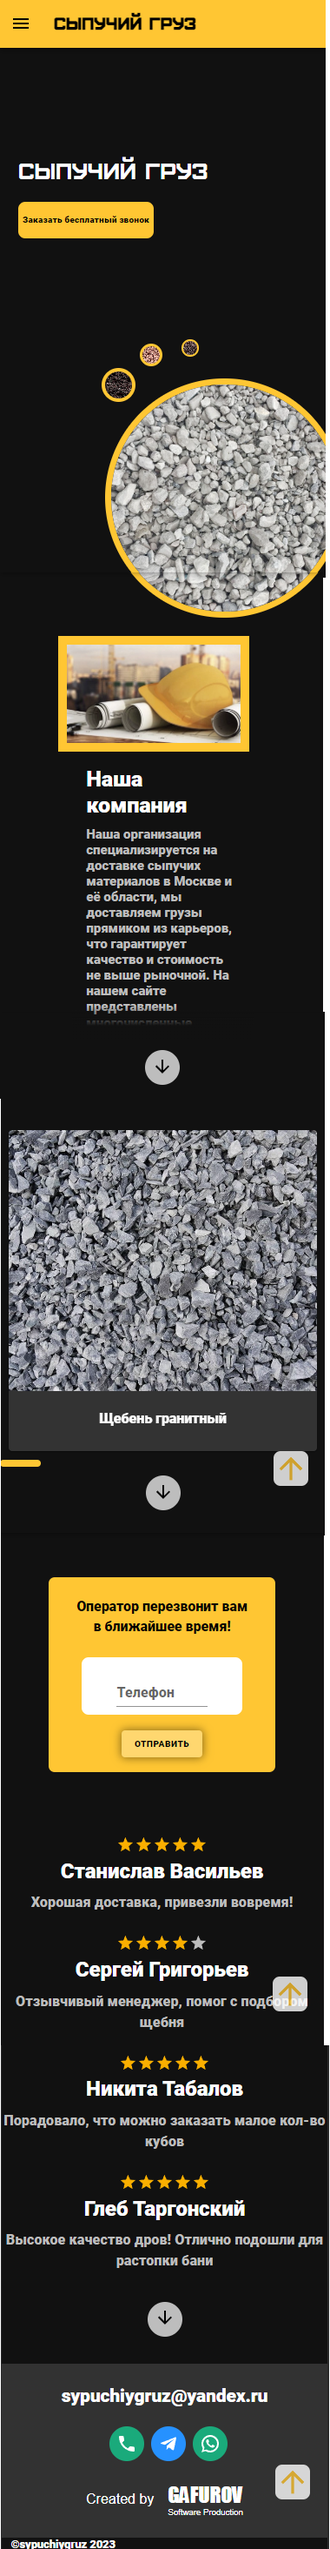
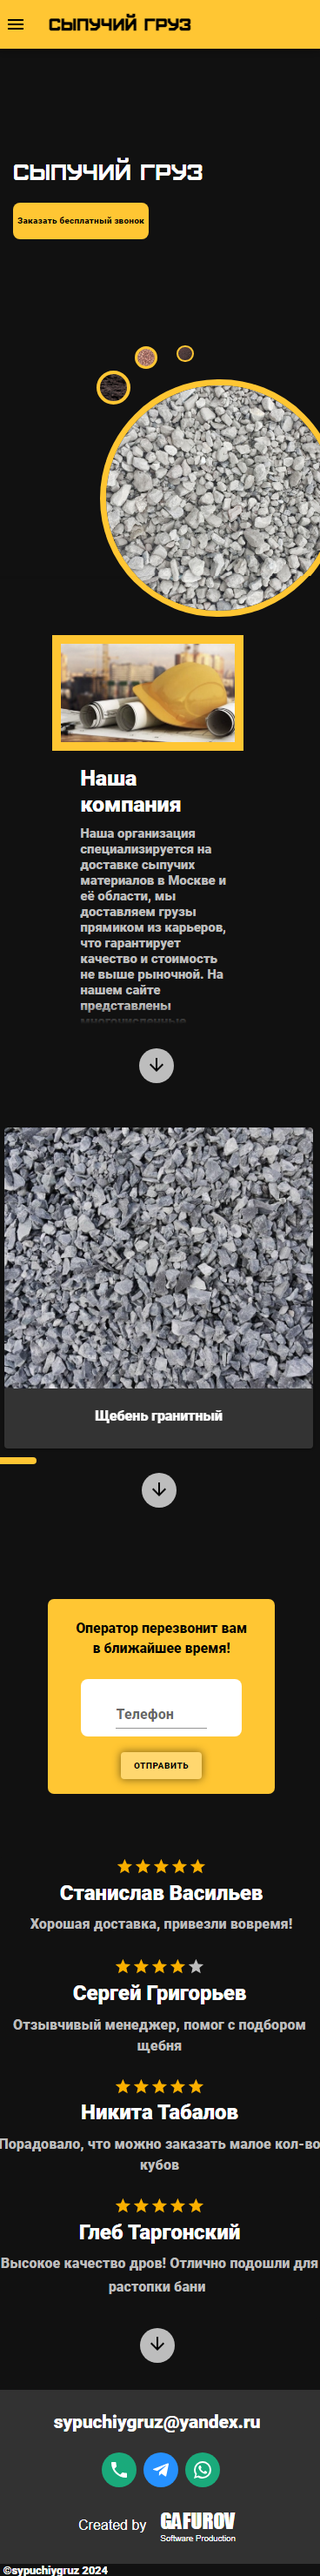
commit

diff --git a/src/db/progressBarPoints.tsx b/src/db/progressBarPoints.tsx
@@ -5,34 +5,61 @@ export const points: IPoint[] = [
 	{
 		point: {
 			icon: <BiAccessibility />,
-			heading: 'Пункт 1',
-			subText: 'Описание',
+			heading: 'БРИФИНГ',
+			subText: '',
 		},
 		description: {
-			heading: 'Заголовок',
-			description: 'Вот такое вот описание, да...',
+			heading: '',
+			description:
+				'Ставим цели, анализируем ЦА и определяем концепцию, позиционирование бренда.',
 		},
 	},
 	{
 		point: {
 			icon: <BiAccessibility />,
-			heading: 'Пункт 1',
-			subText: 'Описание',
+			heading: 'БРЕНДИНГ',
+			subText: '',
 		},
 		description: {
-			heading: 'Заголовок',
-			description: 'Вот такое вот описание, да...',
+			heading: '',
+			description:
+				'Воплощаем концепцию в жизнь, создавая имидж компании инструментами брендинга',
 		},
 	},
 	{
 		point: {
 			icon: <BiAccessibility />,
-			heading: 'Пункт 1',
-			subText: 'Описание',
+			heading: 'РАЗРАБОТКА',
+			subText: '',
 		},
 		description: {
-			heading: 'Заголовок',
-			description: 'Вот такое вот описание, да...',
+			heading: '',
+			description:
+				'Создаем сайты и приложения, соблюдая фирменный стиль и задачи заказчика',
+		},
+	},
+	{
+		point: {
+			icon: <BiAccessibility />,
+			heading: 'ВИДЕОПРОДАКШН',
+			subText: '',
+		},
+		description: {
+			heading: '',
+			description:
+				'Продюсируем рекламные ролики, интервью и контент для социальных сетей',
+		},
+	},
+	{
+		point: {
+			icon: <BiAccessibility />,
+			heading: 'ПРОДВИЖЕНИЕ',
+			subText: '',
+		},
+		description: {
+			heading: '',
+			description:
+				'Обеспечиваем бизнес клиентами используя современные инструменты маркетинга',
 		},
 	},
 ];

diff --git a/src/pages/MainPage/components/ServicesSection/components/ServiceTab/ServiceTab.tsx b/src/pages/MainPage/components/ServicesSection/components/ServiceTab/ServiceTab.tsx
@@ -27,7 +27,7 @@ const ServiceTab: FC<IServiceTabProps> = ({ tabContent, icon }) => {
 						switch (paragraph.type) {
 							case 'list':
 								return (
-									<ul
+									<div
 										className={styles.paragraphList}
 										key={v4()}
 									>
@@ -42,16 +42,17 @@ const ServiceTab: FC<IServiceTabProps> = ({ tabContent, icon }) => {
 													>
 														<DroppingText
 															preview={
-																listElement
+																listElement.title
 															}
-															droppingText={'asd'}
+															droppingText={
+																listElement.description
+															}
 														/>
-														{/* {listElement} */}
 													</div>
 												);
 											}
 										)}
-									</ul>
+									</div>
 								);
 
 							case 'heading':
@@ -60,7 +61,7 @@ const ServiceTab: FC<IServiceTabProps> = ({ tabContent, icon }) => {
 										className={styles.paragraphHeading}
 										key={v4()}
 									>
-										{paragraph.content[0]}
+										{paragraph.content[0].title}
 									</div>
 								);
 
@@ -70,7 +71,7 @@ const ServiceTab: FC<IServiceTabProps> = ({ tabContent, icon }) => {
 										className={styles.paragraphText}
 										key={v4()}
 									>
-										{paragraph.content[0]}
+										{paragraph.content[0].title}
 									</div>
 								);
 

diff --git a/src/pages/MainPage/components/BenefitsSection/BenefitsSection.tsx b/src/pages/MainPage/components/BenefitsSection/BenefitsSection.tsx
@@ -1,14 +1,42 @@
-import { FC } from 'react';
+import { FC, useEffect, useState } from 'react';
 import styles from './BenefitsSection.module.scss';
 import CardsGallery from './components/CardsGallery/CardGallery';
 import { benefitsCards } from '../../../../db/servicesCards';
+import { v4 } from 'uuid';
+import BenefitCard from './components/BenefitCard/BenefitCard';
 
 interface IBenefitsSectionProps {}
 
 const BenefitsSection: FC<IBenefitsSectionProps> = ({}) => {
+	const [width, setWidth] = useState<number>(0);
+
+	useEffect(() => {
+		const handleResize = () => {
+			setWidth(document.body.scrollWidth);
+		};
+		handleResize();
+		window.addEventListener('resize', handleResize);
+		return () => {
+			window.removeEventListener('resize', handleResize);
+		};
+	}, []);
+
 	return (
 		<div className={styles.BenefitsSection}>
-			<CardsGallery cardPull={benefitsCards} />
+			{width >= 1300 ? (
+				<CardsGallery cardPull={benefitsCards} />
+			) : (
+				<div className={styles.verticalCardContainer}>
+					{benefitsCards.map((card) => (
+						<BenefitCard
+							key={v4()}
+							heading={card.heading}
+							text={card.text}
+							iconProps={card.iconProps}
+						/>
+					))}
+				</div>
+			)}
 		</div>
 	);
 };

diff --git a/src/pages/MainPage/components/PortfolioSection/PortfolioSection.tsx b/src/pages/MainPage/components/PortfolioSection/PortfolioSection.tsx
@@ -2,6 +2,7 @@ import { FC } from 'react';
 import styles from './PortfolioSection.module.scss';
 import Tabs from '../../../../components/Tabs/Tabs';
 import WebSiteTab from './components/WebSiteTab/WebSiteTab';
+import VideoTab from './components/VideoTab/VideoTab';
 
 interface IPortfolioSectionProps {}
 
@@ -46,7 +47,17 @@ const PortfolioSection: FC<IPortfolioSectionProps> = ({}) => {
 						name: 'Наши сайты',
 					},
 					{
-						component: <></>,
+						component: (
+							<VideoTab
+								links={[
+									'https://www.youtube.com/embed/byZ55ljdeZo?si=H7PWxhfor7zfhabI',
+									'https://www.youtube.com/embed/WZIA5R5OpUM?si=eeoncKYud0-i8RUj',
+									'https://www.youtube.com/embed/WqB8Am4DH1E?si=uL33G6xwUTEIF96U',
+									'https://www.youtube.com/embed/egJgCKWlbzA?si=cFN92Hn86DqRGzcv',
+									'https://www.youtube.com/embed/Qph691VXPqc?si=EJLXPfn4eEHe6CW1',
+								]}
+							/>
+						),
 						name: 'Съемка видео',
 					},
 					{

diff --git a/src/db/serviceTabs.tsx b/src/db/serviceTabs.tsx
@@ -1,9 +1,7 @@
 import ServiceTab from '../pages/MainPage/components/ServicesSection/components/ServiceTab/ServiceTab';
 import { cardPulls } from './cardPulls';
-import { web } from './services';
+import { web, video, design } from './services';
 import { skullIcon, palette, camera } from './icons';
-import TypingIntoBrowser from '../components/TypingIntoBrowser/TypingIntoBrowser';
-
 export const components = [
 	{
 		component: (
@@ -24,7 +22,7 @@ export const components = [
 			// 	speed={50}
 			// 	loadingTime={1}
 			// >
-			<ServiceTab tabContent={web} icon={palette} />
+			<ServiceTab tabContent={video} icon={palette} />
 			// </TypingIntoBrowser>
 		),
 		name: cardPulls.design.name,
@@ -36,7 +34,7 @@ export const components = [
 			// 	speed={50}
 			// 	loadingTime={1}
 			// >
-			<ServiceTab tabContent={web} icon={camera} />
+			<ServiceTab tabContent={design} icon={camera} />
 			// </TypingIntoBrowser>
 		),
 		name: cardPulls.video.name,

diff --git a/src/pages/MainPage/components/PortfolioSection/components/VideoCard/VideoCard.tsx b/src/pages/MainPage/components/PortfolioSection/components/VideoCard/VideoCard.tsx
@@ -1,0 +1,24 @@
+import { FC } from 'react';
+import styles from './VideoCard.module.scss';
+
+interface IVideoCardProps {
+	link: string;
+}
+
+const VideoCard: FC<IVideoCardProps> = ({ link }) => {
+	return (
+		<div className={styles.videoCard}>
+			<iframe
+				className={styles.iframeVideo}
+				loading="lazy"
+				src={link}
+				title="YouTube video player"
+				frameborder="0"
+				allow="accelerometer; autoplay; clipboard-write; encrypted-media; gyroscope; picture-in-picture; web-share"
+				allowfullscreen
+			/>
+		</div>
+	);
+};
+
+export default VideoCard;

diff --git a/src/pages/MainPage/components/ContactSection/ContactSection.module.scss b/src/pages/MainPage/components/ContactSection/ContactSection.module.scss
@@ -60,6 +60,8 @@
 .instagram,
 .telegram,
 .youtube {
+	transition: 0.3s;
+	display: flex;
 	position: absolute;
 	width: calc(var(--index) * 4);
 	height: calc(var(--index) * 4);
@@ -84,9 +86,20 @@
 	transition: opacity 0.6s ease-in-out, scale 0.2s, filter 0.2s;
 }
 
+.telegram:hover {
+	color: #5ab3ce;
+}
+
+.instagram:hover {
+	color: #cc2366;
+}
+
+.youtube:hover {
+	color: #bb4141;
+}
+
 .youtube:hover,
 .instagram:hover,
 .telegram:hover {
 	scale: 1.05;
-	filter: brightness(1.5);
 }

diff --git a/src/pages/MainPage/components/PortfolioSection/components/VideoCard/VideoCard.module.scss b/src/pages/MainPage/components/PortfolioSection/components/VideoCard/VideoCard.module.scss
@@ -1,0 +1,29 @@
+.videoCard {
+	margin-top: 20px;
+	border: solid;
+	border-width: 10px;
+	border-color: var(--color-frame-main-active);
+	border-radius: 7px;
+	display: flex;
+	justify-content: center;
+	align-items: center;
+}
+
+.iframeVideo {
+	width: 560px;
+	height: 315px;
+}
+
+@media (max-width: 700px) {
+	.iframeVideo {
+		width: 448px;
+		height: 252px;
+	}
+}
+
+@media (max-width: 500px) {
+	.iframeVideo {
+		width: 336px;
+		height: 189px;
+	}
+}

diff --git a/src/pages/MainPage/components/PortfolioSection/components/VideoTab/VideoTab.tsx b/src/pages/MainPage/components/PortfolioSection/components/VideoTab/VideoTab.tsx
@@ -1,0 +1,19 @@
+import { FC } from 'react';
+import styles from './VideoTab.module.scss';
+import VideoCard from '../VideoCard/VideoCard';
+
+interface IVideoTabProps {
+	links: string[];
+}
+
+const VideoTab: FC<IVideoTabProps> = ({ links }) => {
+	return (
+		<div className={styles.videoTab}>
+			{links.map((link) => {
+				return <VideoCard link={link} />;
+			})}
+		</div>
+	);
+};
+
+export default VideoTab;

diff --git a/src/db/services/index.ts b/src/db/services/index.ts
@@ -1,6 +1,10 @@
 import { ITabContent } from '../../types/ITabContent';
 import webService from './webServices.json';
+import videoServices from './videoServices.json';
+import designServices from './designServices.json';
 
 const web: ITabContent = webService;
+const video: ITabContent = videoServices;
+const design: ITabContent = designServices;
 
-export { web };
+export { web, video, design };

diff --git a/src/pages/MainPage/components/ServicesSection/components/ServiceTab/ServiceTab.module.scss b/src/pages/MainPage/components/ServicesSection/components/ServiceTab/ServiceTab.module.scss
@@ -66,12 +66,16 @@
 }
 
 .paragraphList {
+	display: flex;
 	list-style: inside;
 	font-size: var(--font-size-sm);
 	color: var(--font-color-main);
 	font-family: var(--font-family-main);
+	flex-wrap: wrap;
+	flex-direction: row;
 	& > * {
-		margin: calc(var(--index) * 0.3) 0;
+		padding: 10px;
+		width: 50%;
 	}
 }
 

diff --git a/src/pages/MainPage/components/PortfolioSection/components/WebSiteCard/WebSiteCard.module.scss b/src/pages/MainPage/components/PortfolioSection/components/WebSiteCard/WebSiteCard.module.scss
@@ -12,6 +12,8 @@
 	justify-content: center;
 	position: relative;
 	transition: 0.3s;
+	min-width: 320px !important;
+	min-height: 400px !important;
 }
 
 .innerBox {
@@ -83,4 +85,7 @@
 .sitePic {
 	width: 100%;
 	height: auto;
+}
+
+@media (max-width: 900px) {
 }
